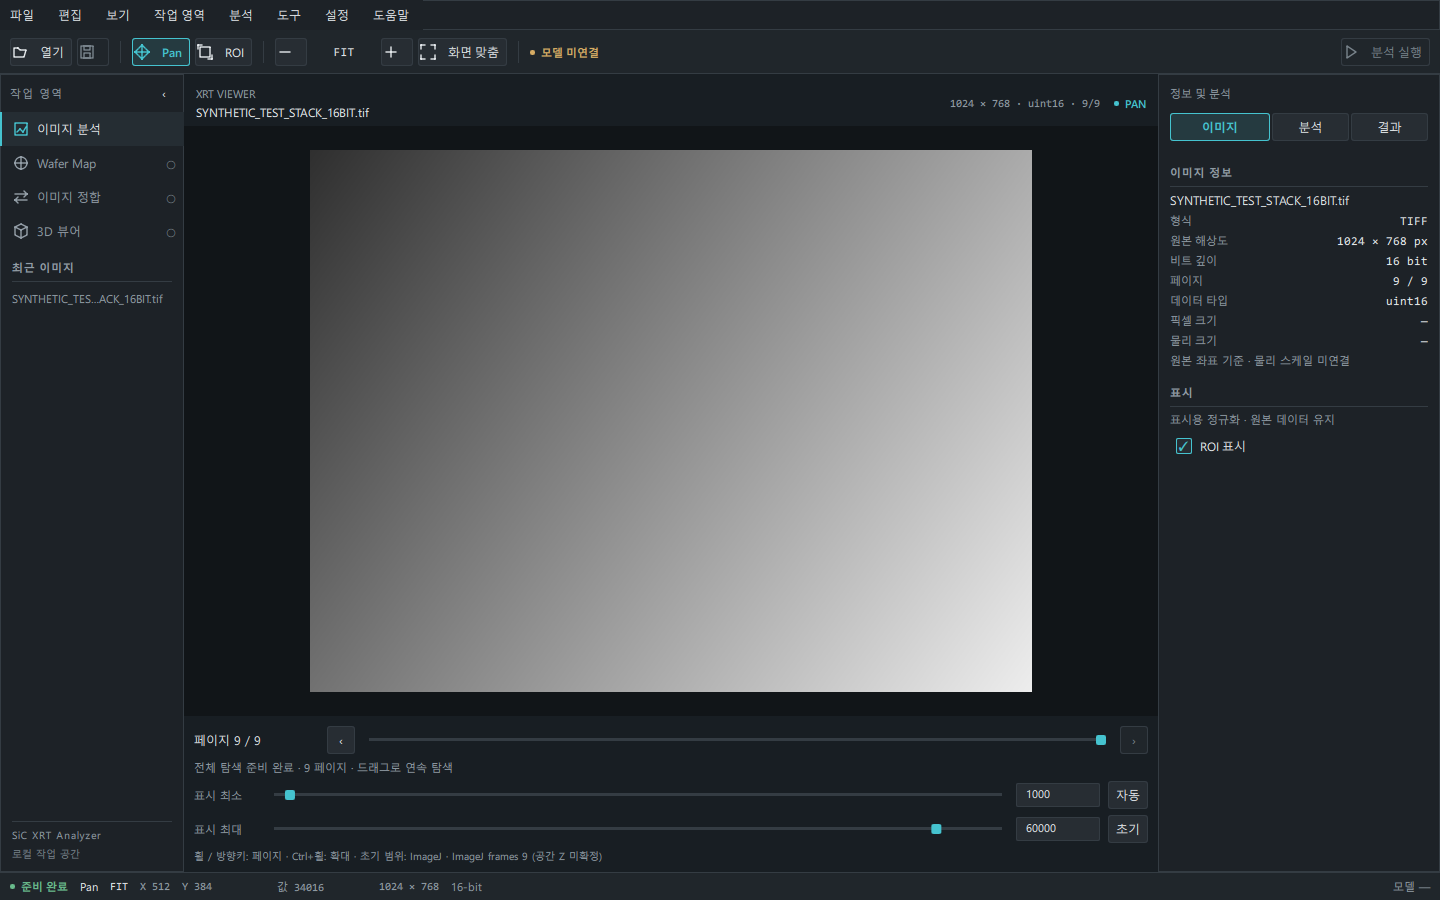
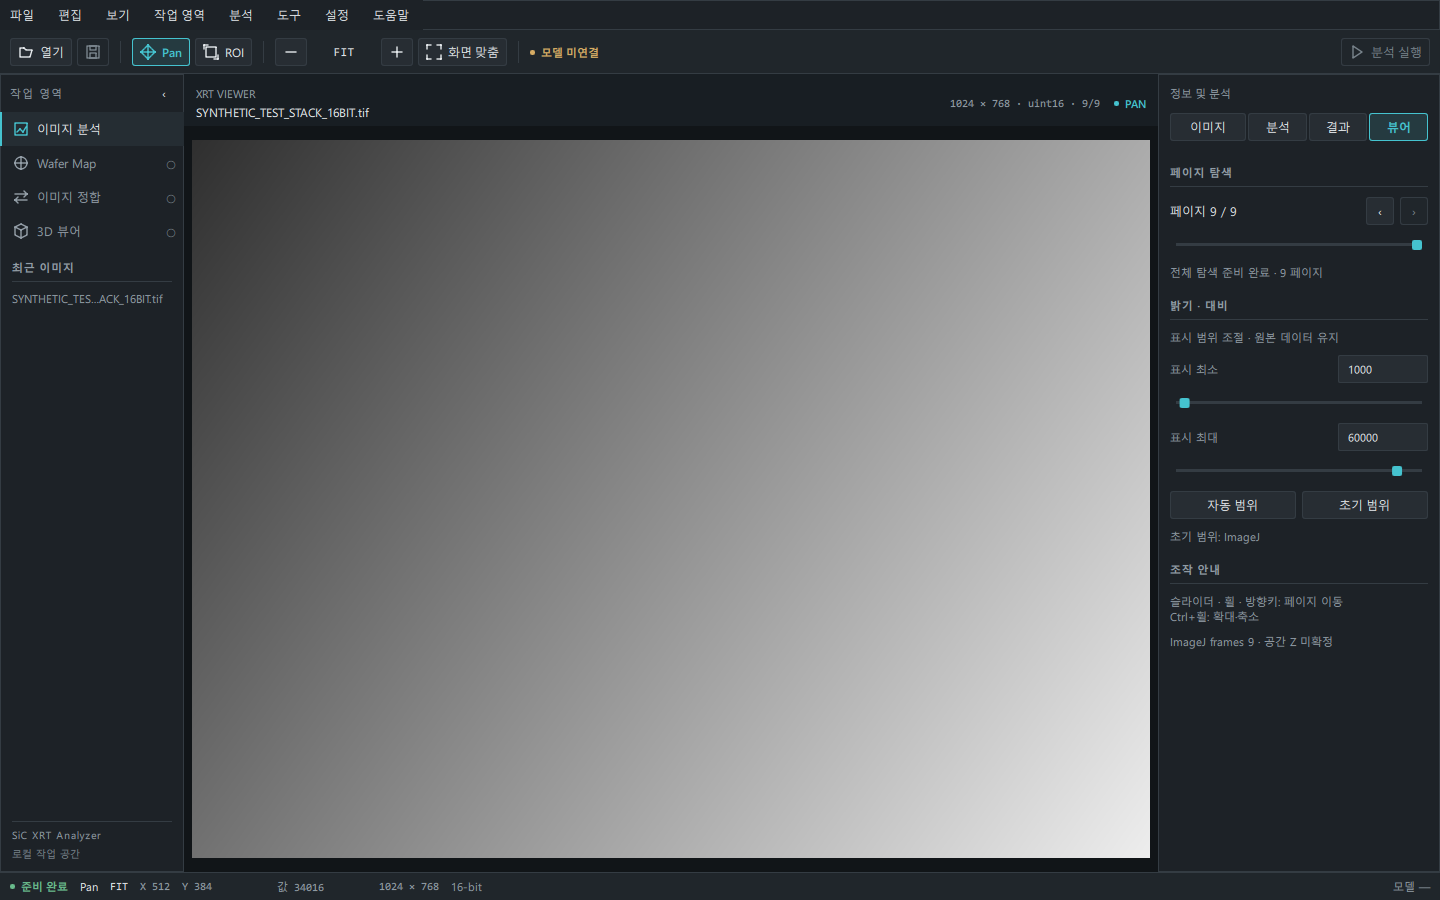
test: 사이드바 탐색과 표시 범위 조작 검증
실제 QML 드래그와 탭 전환 후 상태 유지 검사, 합성 스택 화면 캡처 및 조작 문서 갱신. Refs #23.

Changed region(s): [[0.125, 0.1556, 1.0, 0.9644], [0.8125, 0.1244, 1.0, 0.1556], [0.0938, 0.0311, 0.1562, 0.0622]]

diff --git a/tests/test_tiff_stack.py b/tests/test_tiff_stack.py
@@ -404,7 +404,10 @@ def test_qml_stack_navigation_contrast_pixel_and_view(qt_app, stack_file, tmp_pa
         spin(qt_app, lambda: not state.property("loading"))
         assert state.property("dtype") == "uint16" and state.property("pageCount") == 7
         assert bridge.stackState["frames"] == 7 and bridge.stackState["low"] == 1000
+        inspector = window.findChild(QObject, "inspectorPanel")
+        assert inspector.property("tabIndex") == 3 and inspector.property("visible")
         slider = window.findChild(QObject, "pageSlider")
+        assert slider.property("visible")
         slider.setProperty("value", 3)
         invoke(slider, "moved")
         wait_page(3)
@@ -443,18 +446,44 @@ def test_qml_stack_navigation_contrast_pixel_and_view(qt_app, stack_file, tmp_pa
         high = window.findChild(QObject, "displayHighSlider")
         low.setProperty("value", 0)
         invoke(low, "moved")
-        high.setProperty("value", 20000)
-        invoke(high, "moved")
-        spin(qt_app, lambda: not bridge.stack_viewer.busy)
+        high_origin = high.mapToScene(QPointF(0, 0))
+        def high_position(fraction):
+            return QPoint(int(high_origin.x() + high.property("leftPadding") + high.property("availableWidth") * fraction),
+                          int(high_origin.y() + high.property("height") / 2))
+        QTest.mousePress(window, Qt.LeftButton, Qt.NoModifier, high_position(.91))
+        QTest.mouseMove(window, high_position(.3))
+        QTest.mouseRelease(window, Qt.LeftButton, Qt.NoModifier, high_position(.3))
+        spin(qt_app, lambda: not bridge.stack_viewer.busy and bridge.stackState["rawReady"])
+        assert 18000 < bridge.stackState["high"] < 22000
         assert provider.image.pixelColor(x, y).red() != before
         assert bridge.pixelValue(x, y) == value
         np.testing.assert_array_equal(bridge.stack_viewer.frame.pixels, pixels[1])
-        assert frame.property("width") > 0
-        window.resize(1100, 700)
-        qt_app.processEvents()
-        assert viewer.property("viewportWidth") > 500
-        controls = window.findChild(QObject, "stackControls")
-        assert controls.property("width") <= viewer.property("width")
+        saved_range = (bridge.stackState["low"], bridge.stackState["high"])
+        for size in [(1440, 900), (1100, 700)]:
+            window.resize(*size)
+            qt_app.processEvents()
+            QTest.qWait(30)
+            assert viewer.property("viewportWidth") > 500
+            # Image area now uses the full height below its 52px header.
+            assert viewport.property("height") >= viewer.property("height") - 53
+            assert 0 < frame.property("width") <= viewport.property("width") - 15
+            assert 0 < frame.property("height") <= viewport.property("height") - 15
+            assert abs(frame.property("width") / frame.property("height") - pixels.shape[2] / pixels.shape[1]) < .001
+            controls_origin = slider.mapToScene(QPointF(0, 0))
+            inspector_origin = inspector.mapToScene(QPointF(0, 0))
+            assert controls_origin.x() >= inspector_origin.x()
+            assert controls_origin.x() + slider.property("width") <= inspector_origin.x() + inspector.property("width")
+            # Clicking another tab does not alter the selected page, range or fit.
+            for index in (0, 1, 2, 3):
+                tabs = window.findChild(QObject, "inspectorTabs").childItems()
+                tab = next(item for item in tabs if item.objectName() == "inspectorTab" + str(index))
+                tab_pos = tab.mapToScene(QPointF(tab.property("width") / 2, tab.property("height") / 2))
+                QTest.mouseClick(window, Qt.LeftButton, Qt.NoModifier, tab_pos.toPoint())
+                qt_app.processEvents()
+                assert inspector.property("tabIndex") == index
+                assert slider.property("visible") == (index == 3)
+                assert state.property("pageIndex") == 1 and state.property("fitMode")
+                assert (bridge.stackState["low"], bridge.stackState["high"]) == saved_range
         assert not errors, "\n".join(errors)
     finally:
         bridge.waitForLoads()

diff --git a/tests/test_ui_analysis_contract.py b/tests/test_ui_analysis_contract.py
@@ -46,6 +46,7 @@ def test_ui_original_metadata_and_pipeline_states(qt_app, tmp_path):
         assert state.property("hasLoadedImage")
         assert (state.property("imageWidth"), state.property("imageHeight")) == (8000, 6000)
         assert (state.property("previewWidth"), state.property("previewHeight")) == (4000, 3000)
+        invoke(window, "openInspectorTab", 0)
         assert window.findChild(QObject, "previewSizeRow").property("visible")
         assert bridge.original_source is bridge.pipeline.source
         assert bridge.analysis["inputSource"] == "Original TIFF"

diff --git a/tools/capture_tiff_stack.py b/tools/capture_tiff_stack.py
@@ -77,6 +77,10 @@ def main():
                     break
             assert bridge.stack_viewer.preload_state["ready"]
             capture("first-page")
+            inspector = window.findChild(QObject, "inspectorPanel")
+            inspector.setProperty("tabIndex", 0)
+            capture("image-info")
+            inspector.setProperty("tabIndex", 3)
             slider = window.findChild(QObject, "pageSlider")
             slider_origin = slider.mapToScene(QPoint(0, 0))
             def slider_position(fraction):

diff --git a/README.md b/README.md
@@ -36,7 +36,7 @@ python3 -m venv .venv
 - **메뉴**: 파일 · 편집 · 보기 · 작업 영역 · 분석 · 도구 · 설정 · 도움말. `Alt+F/E/V/W/A/T/S/H`와 방향키, Enter, Escape로 조작합니다.
 - **Command Toolbar**: 열기, 저장(준비 중), Pan/ROI, 축소·배율·확대·Fit, 모델 상태, 분석 실행(미연결). Viewer 내부에는 중복 명령 툴바를 두지 않습니다.
 - **Workspace Navigator**: 이미지 분석, Wafer Map, 정합, 3D와 최근 파일. 이미지 분석 외 작업 영역은 준비 안내 화면입니다.
-- **Viewer**: `Ctrl+O` 또는 파일 드롭으로 TIFF를 엽니다. 스택은 아래 슬라이더·휠·방향키로 페이지 이동, Ctrl+휠로 확대합니다. Pan(`H`), ROI(`R`), 화면 맞춤(`Ctrl+0`), 확대·축소(`Ctrl++/-`)를 지원합니다. **화면 맞춤은 FIT**, **100%는 원본 픽셀과 화면 물리 픽셀의 1:1**입니다. 보기 메뉴 또는 `Ctrl+1`로 실제 크기를 표시합니다.
+- **Viewer**: `Ctrl+O` 또는 파일 드롭으로 TIFF를 엽니다. 오른쪽 **뷰어 탭**의 슬라이더·이전/다음 버튼, 이미지 위 휠·방향키로 페이지 이동, Ctrl+휠로 확대합니다. 페이지 탐색과 밝기·대비 조절을 사이드바에 모아 이미지 영역의 높이를 확보했습니다. 기본 **FIT**는 원본 종횡비와 전체 이미지를 유지하며 가장자리에 8px 여백으로 크게 맞춥니다. 설정에서 선택한 기본 배율도 유지합니다. Pan(`H`), ROI(`R`), 화면 맞춤(`Ctrl+0`), 확대·축소(`Ctrl++/-`)를 지원합니다. **100%는 원본 픽셀과 화면 물리 픽셀의 1:1**입니다. 보기 메뉴 또는 `Ctrl+1`로 실제 크기를 표시합니다.
 - **Inspector**: IMAGE는 실제 메타데이터와 ROI 표시, ANALYSIS는 원본 픽셀 기준 ROI 및 분석 준비 상태, RESULT는 결과의 빈 상태를 표시합니다. 설정 메뉴는 Inspector를 바꾸지 않습니다.
 - **Status Bar**: 로딩·이미지·ROI·파일 오류 상태, 도구, 배율, 원본 픽셀 좌표와 실제 원본 값, 해상도와 비트 깊이. 미연결 물리 스케일·모델·장비는 `—`로 표시합니다.
 - **보기**에서 패널과 상태 표시줄을 숨기고 전체 화면(`F11`) 또는 화면 배치 초기화를 사용합니다. 기본 1440×900, 최소 1100×700입니다.
